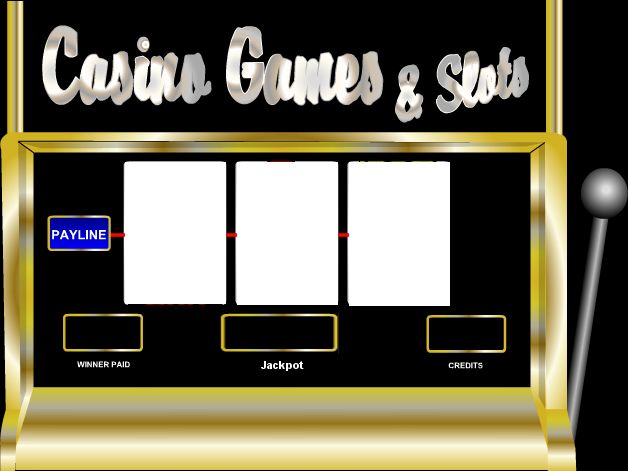
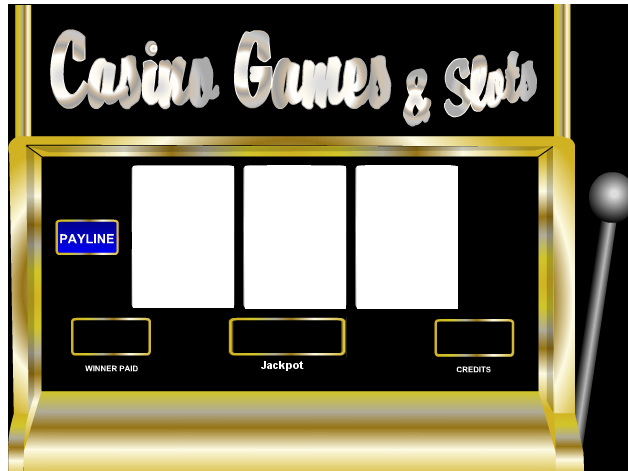
Added revised pictures for reels. Added default spin-reel picture. Updated slot machine JS code

diff --git a/SlotMachine/js/main.js b/SlotMachine/js/main.js
@@ -8,6 +8,9 @@ var slotMachineImage;
 var spinButton;
 var spinButtonHover;
 var winText;
+var reel1;
+var reel2;
+var reel3;
 
 var playerMoney = 1000;
 var winnings = 0;
@@ -27,6 +30,23 @@ var bars = 0;
 var bells = 0;
 var sevens = 0;
 var blanks = 0;
+
+function loadQueue() {
+    var queue = new createjs.LoadQueue(true);
+
+    queue.loadFile({ id: "slotMachineImage", src: "img/A_Vector_Art_Slot_Machine_Revised.png" });
+    queue.loadFile({ id: "bananaImage", src: "img/bananas.png" });
+    queue.loadFile({ id: "grapesImage", src: "img/grapes.png" });
+    queue.loadFile({ id: "barsImage", src: "img/bar.png" });
+    queue.loadFile({ id: "bellsImage", src: "img/bells.png" });
+    queue.loadFile({ id: "cherriesImage", src: "img/cherries.png" });
+    queue.loadFile({ id: "orangesImage", src: "img/oranges.png" });
+    queue.loadFile({ id: "sevensImage", src: "img/7.png" });
+    queue.loadFile({ id: "spinHoverButtonImage", src: "img/Spin-Blue.png" });
+    queue.loadFile({ id: "spinButtonImage", src: "img/Spin.png" });
+
+    queue.on("complete", init(), this);
+}
 
 /* Utility function to show Player Stats */
 function showPlayerStats()
@@ -113,35 +133,35 @@ function Reels() {
         outCome[spin] = Math.floor((Math.random() * 65) + 1);
         switch (outCome[spin]) {
             case checkRange(outCome[spin], 1, 27):  // 41.5% probability
-                betLine[spin] = "blank";
+                betLine[spin] = "img/blank.png";
                 blanks++;
                 break;
             case checkRange(outCome[spin], 28, 37): // 15.4% probability
-                betLine[spin] = "Grapes";
+                betLine[spin] = "img/grapes2.png";
                 grapes++;
                 break;
             case checkRange(outCome[spin], 38, 46): // 13.8% probability
-                betLine[spin] = "Banana";
+                betLine[spin] = "img/bananas2.png";
                 bananas++;
                 break;
             case checkRange(outCome[spin], 47, 54): // 12.3% probability
-                betLine[spin] = "Orange";
+                betLine[spin] = "img/oranges2.png";
                 oranges++;
                 break;
             case checkRange(outCome[spin], 55, 59): //  7.7% probability
-                betLine[spin] = "Cherry";
+                betLine[spin] = "img/cherries2.png";
                 cherries++;
                 break;
             case checkRange(outCome[spin], 60, 62): //  4.6% probability
-                betLine[spin] = "Bar";
+                betLine[spin] = "img/bar2.png";
                 bars++;
                 break;
             case checkRange(outCome[spin], 63, 64): //  3.1% probability
-                betLine[spin] = "Bell";
+                betLine[spin] = "img/bells2.png";
                 bells++;
                 break;
             case checkRange(outCome[spin], 65, 65): //  1.5% probability
-                betLine[spin] = "Seven";
+                betLine[spin] = "img/7-2.png";
                 sevens++;
                 break;
         }
@@ -232,8 +252,20 @@ function gameStart () {
     }
     else if (playerBet <= playerMoney) {
         spinResult = Reels();
-        fruits = spinResult[0] + " - " + spinResult[1] + " - " + spinResult[2];
-        $("div#result>p").text(fruits);
+        //fruits = spinResult[0] + " - " + spinResult[1] + " - " + spinResult[2];
+        //$("div#result>p").text(fruits);
+        reel1 = new createjs.Bitmap(spinResult[0]);
+        reel1.x = 130;
+        reel1.y = 165;
+        game.addChild(reel1);
+        reel2 = new createjs.Bitmap(spinResult[1]);
+        reel2.x = 243;
+        reel2.y = 165;
+        game.addChild(reel2);
+        reel3 = new createjs.Bitmap(spinResult[2]);
+        reel3.x = 355;
+        reel3.y = 165;
+        game.addChild(reel3);
         determineWinnings();
         turn++;
         showPlayerStats();
@@ -282,6 +314,20 @@ function drawSlotMachine() {
     })
     game.addChild(spinButton);
     game.addChild(spinButtonHover);
+
+    reel1 = new createjs.Bitmap("img/spin-reel.png");
+    reel1.x = 130;
+    reel1.y = 165;
+    game.addChild(reel1);
+    reel2 = new createjs.Bitmap("img/spin-reel.png");
+    reel2.x = 243;
+    reel2.y = 165;
+    game.addChild(reel2);
+    reel3 = new createjs.Bitmap("img/spin-reel.png");
+    reel3.x = 355;
+    reel3.y = 165;
+    game.addChild(reel3);
+
 
 
     stage.addChild(game);

diff --git a/SlotMachine/index.html b/SlotMachine/index.html
@@ -6,7 +6,7 @@
     <!-- CSS Section -->
     <link href="css/main.css" rel="stylesheet" />
 </head>
-<body onload="init()">
+<body onload="loadQueue()">
         <h1>Slot Machine</h1>
         <canvas id="mainCanvas" width="628" height="471"></canvas>
     <div id="main">
